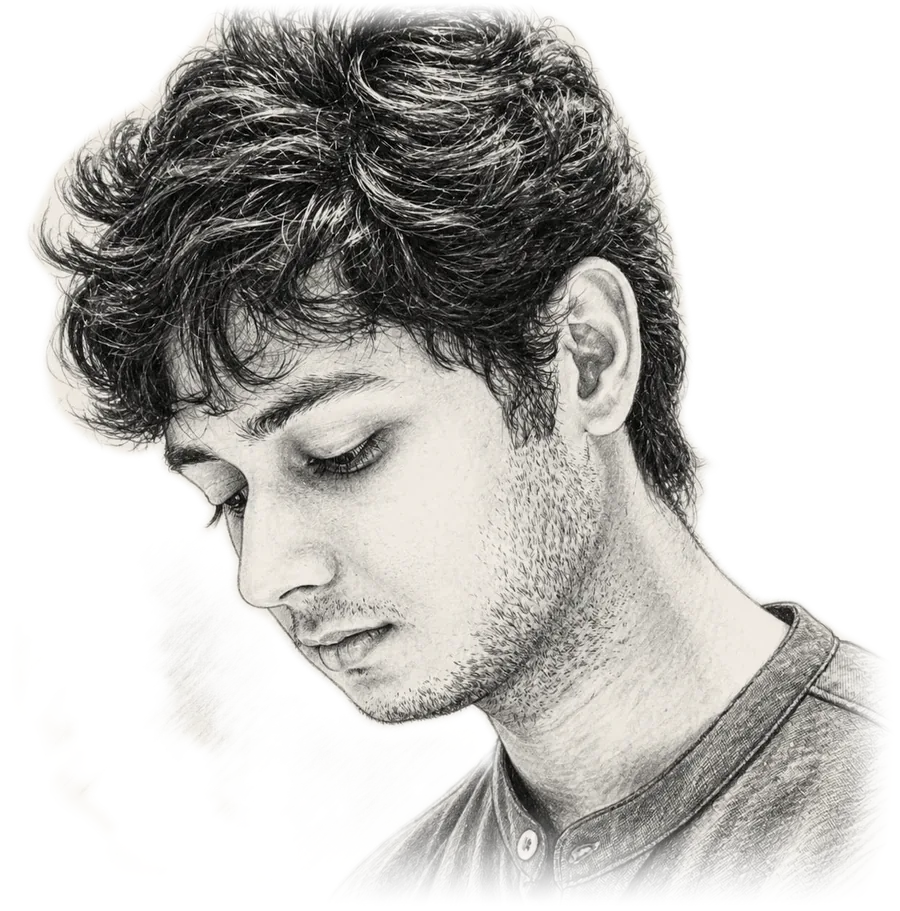
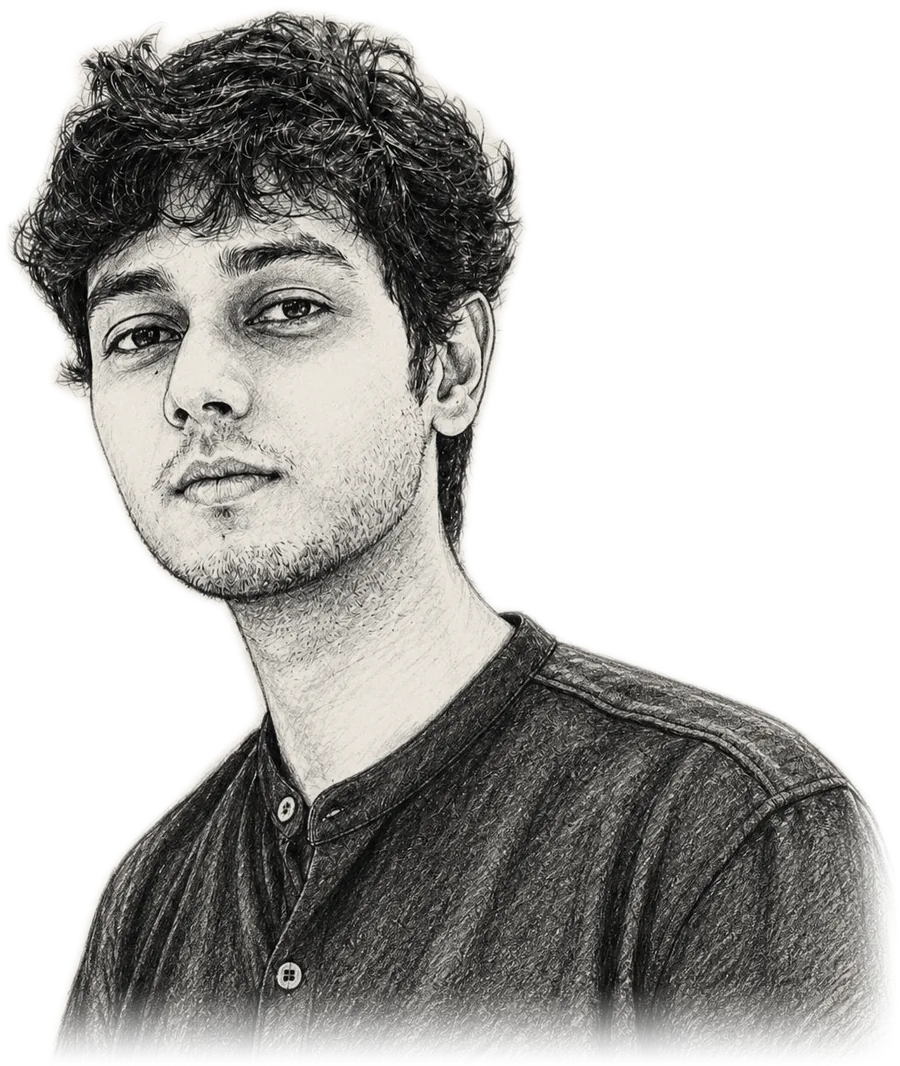
Hero: new front-facing pencil portrait

diff --git a/index.html b/index.html
@@ -33,7 +33,7 @@
 
 <!-- ?v= is bumped whenever the stylesheet changes, so a returning visitor
      never pairs new HTML with a cached old stylesheet. -->
-<link rel="stylesheet" href="assets/style.css?v=5" />
+<link rel="stylesheet" href="assets/style.css?v=6" />
 
 </head>
 <body>
@@ -73,7 +73,7 @@
   <section class="hero" id="top">
     <div class="hero-inner">
       <figure class="hero-art">
-        <img src="assets/jamil-pencil.webp" width="900" height="911" alt="Pencil sketch of Jamil Khan, looking down" />
+        <img src="assets/jamil-pencil.webp?v=2" width="900" height="1066" alt="Pencil sketch of Jamil Khan" />
       </figure>
 
       <div class="hero-copy">

diff --git a/assets/style.css b/assets/style.css
@@ -158,7 +158,7 @@ h1, h2, h3, p, figure { margin: 0; }
   font-size: clamp(3.25rem, 9vw, 8rem); font-weight: 800; line-height: 0.92;
   letter-spacing: -0.05em; text-transform: uppercase;
 }
-.hero-sub { max-width: 46ch; font-size: clamp(1rem, 1.7vw, 1.2rem); font-weight: 600; line-height: 1.55; }
+.hero-sub { max-width: 52ch; font-size: clamp(1rem, 1.7vw, 1.2rem); font-weight: 600; line-height: 1.55; }
 .hero-actions { display: flex; flex-wrap: wrap; gap: 0.75rem; margin-top: 2rem; }
 
 
